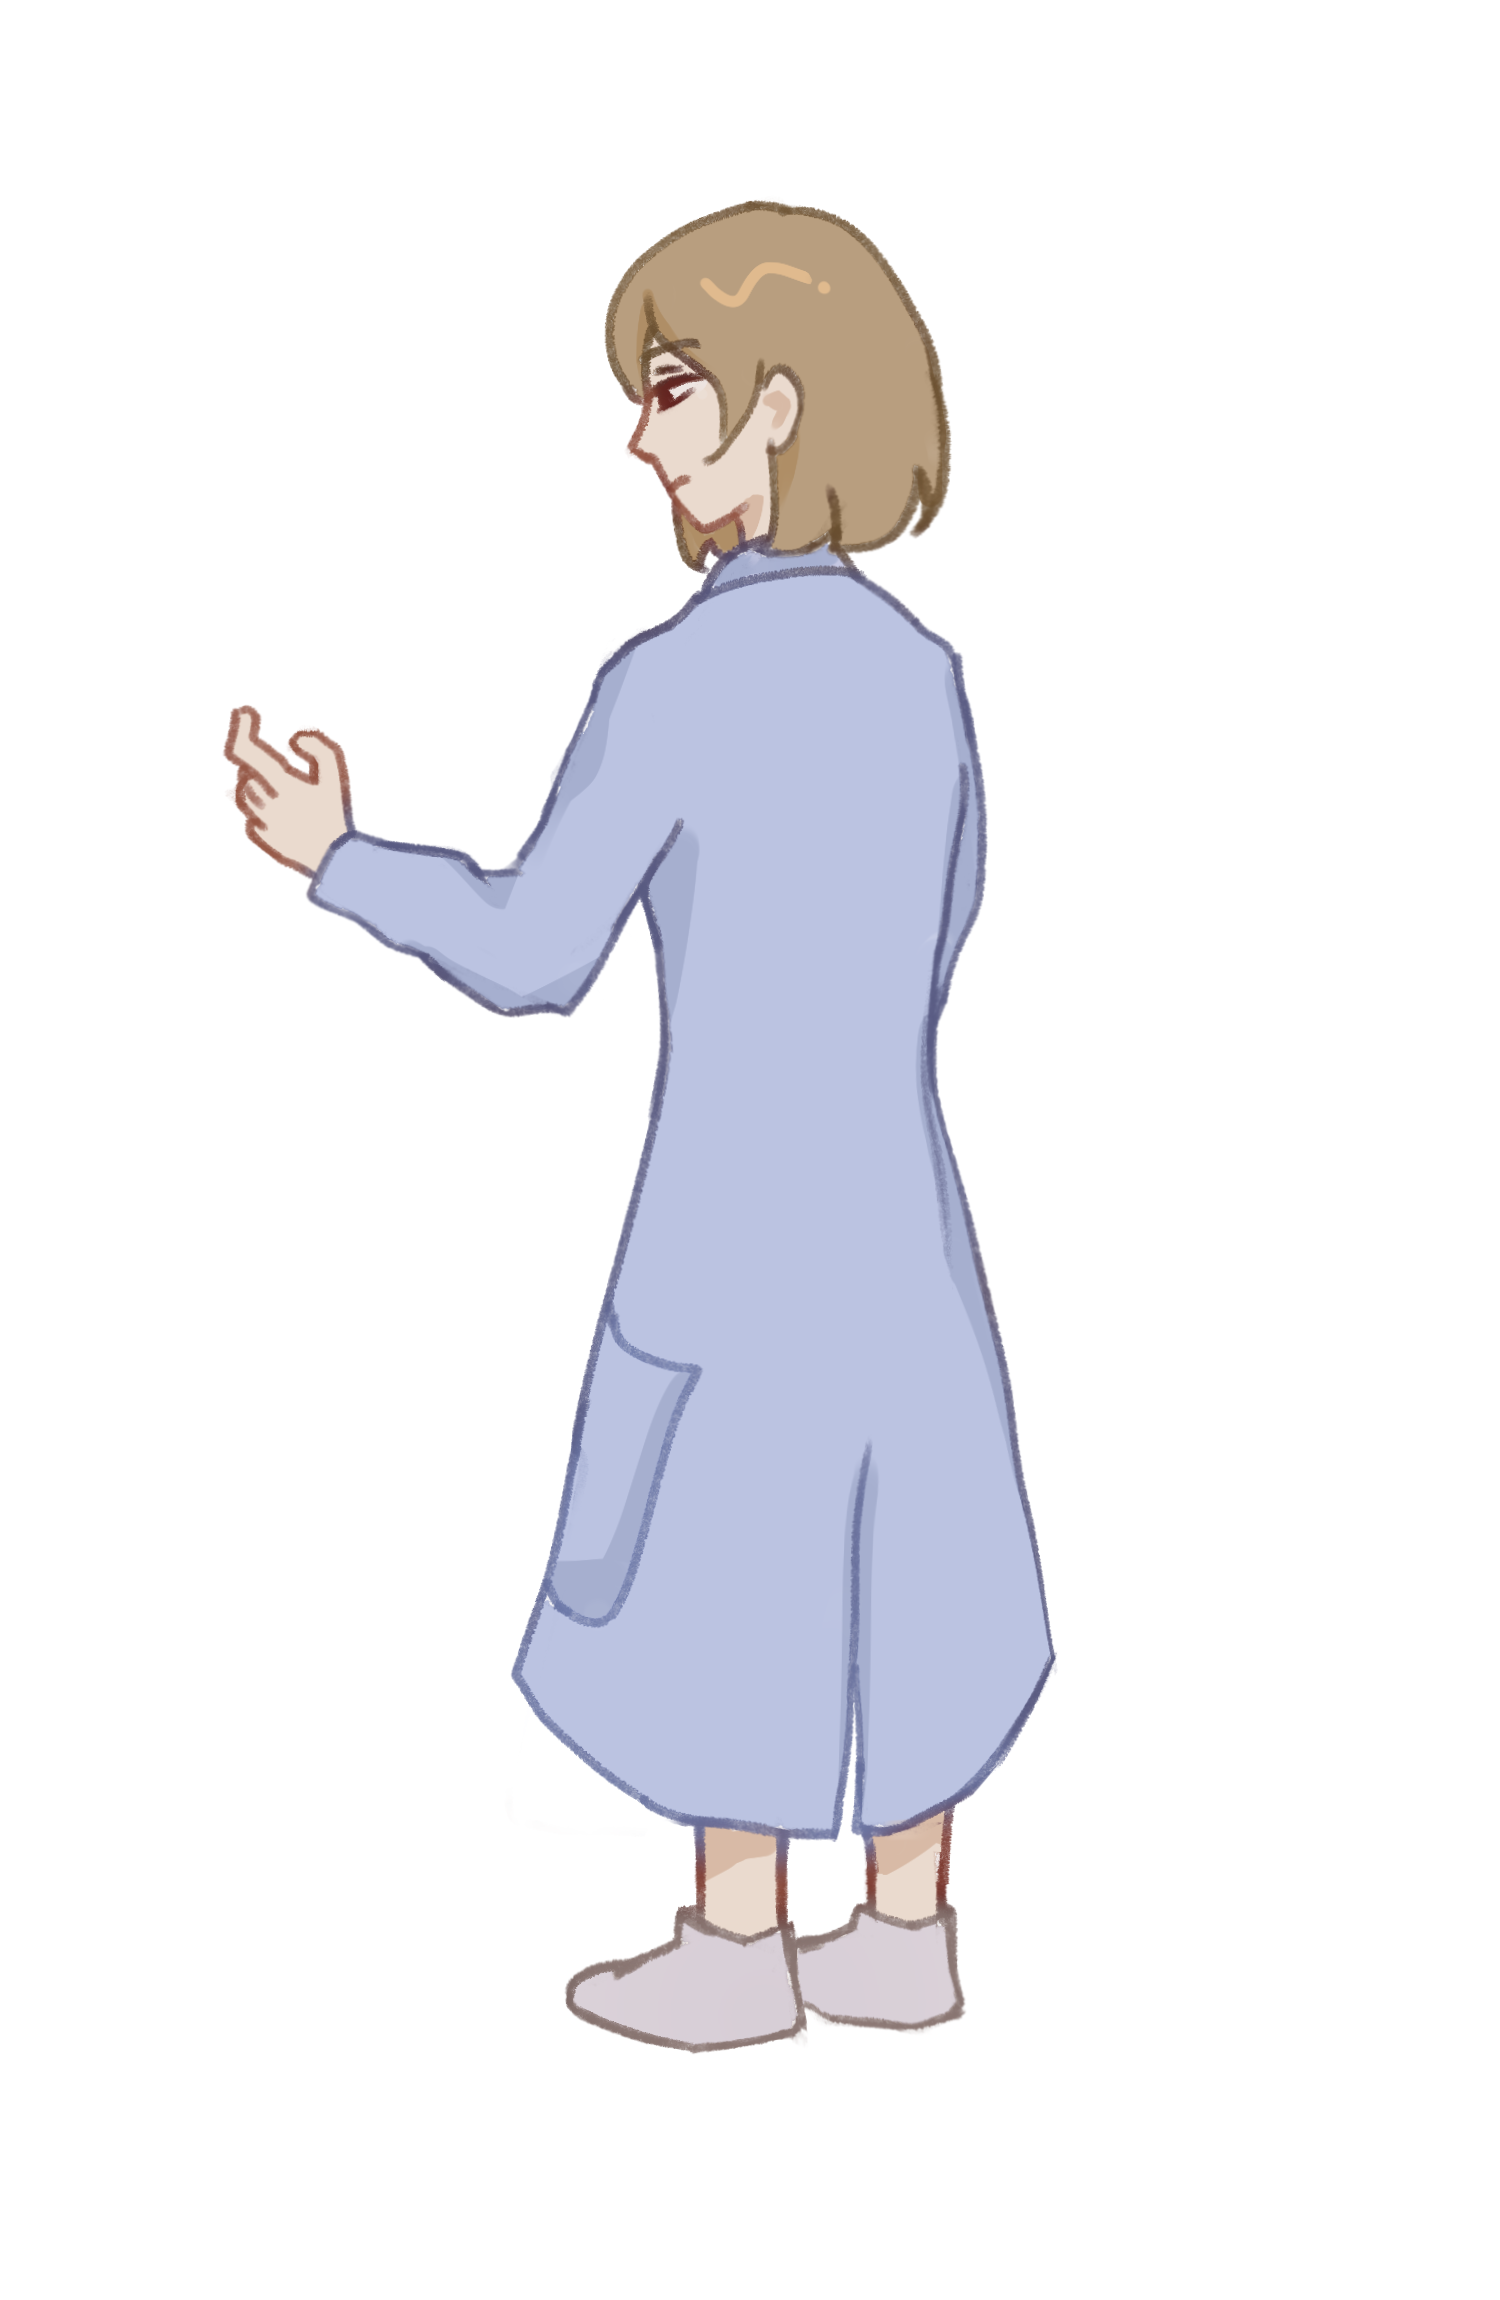
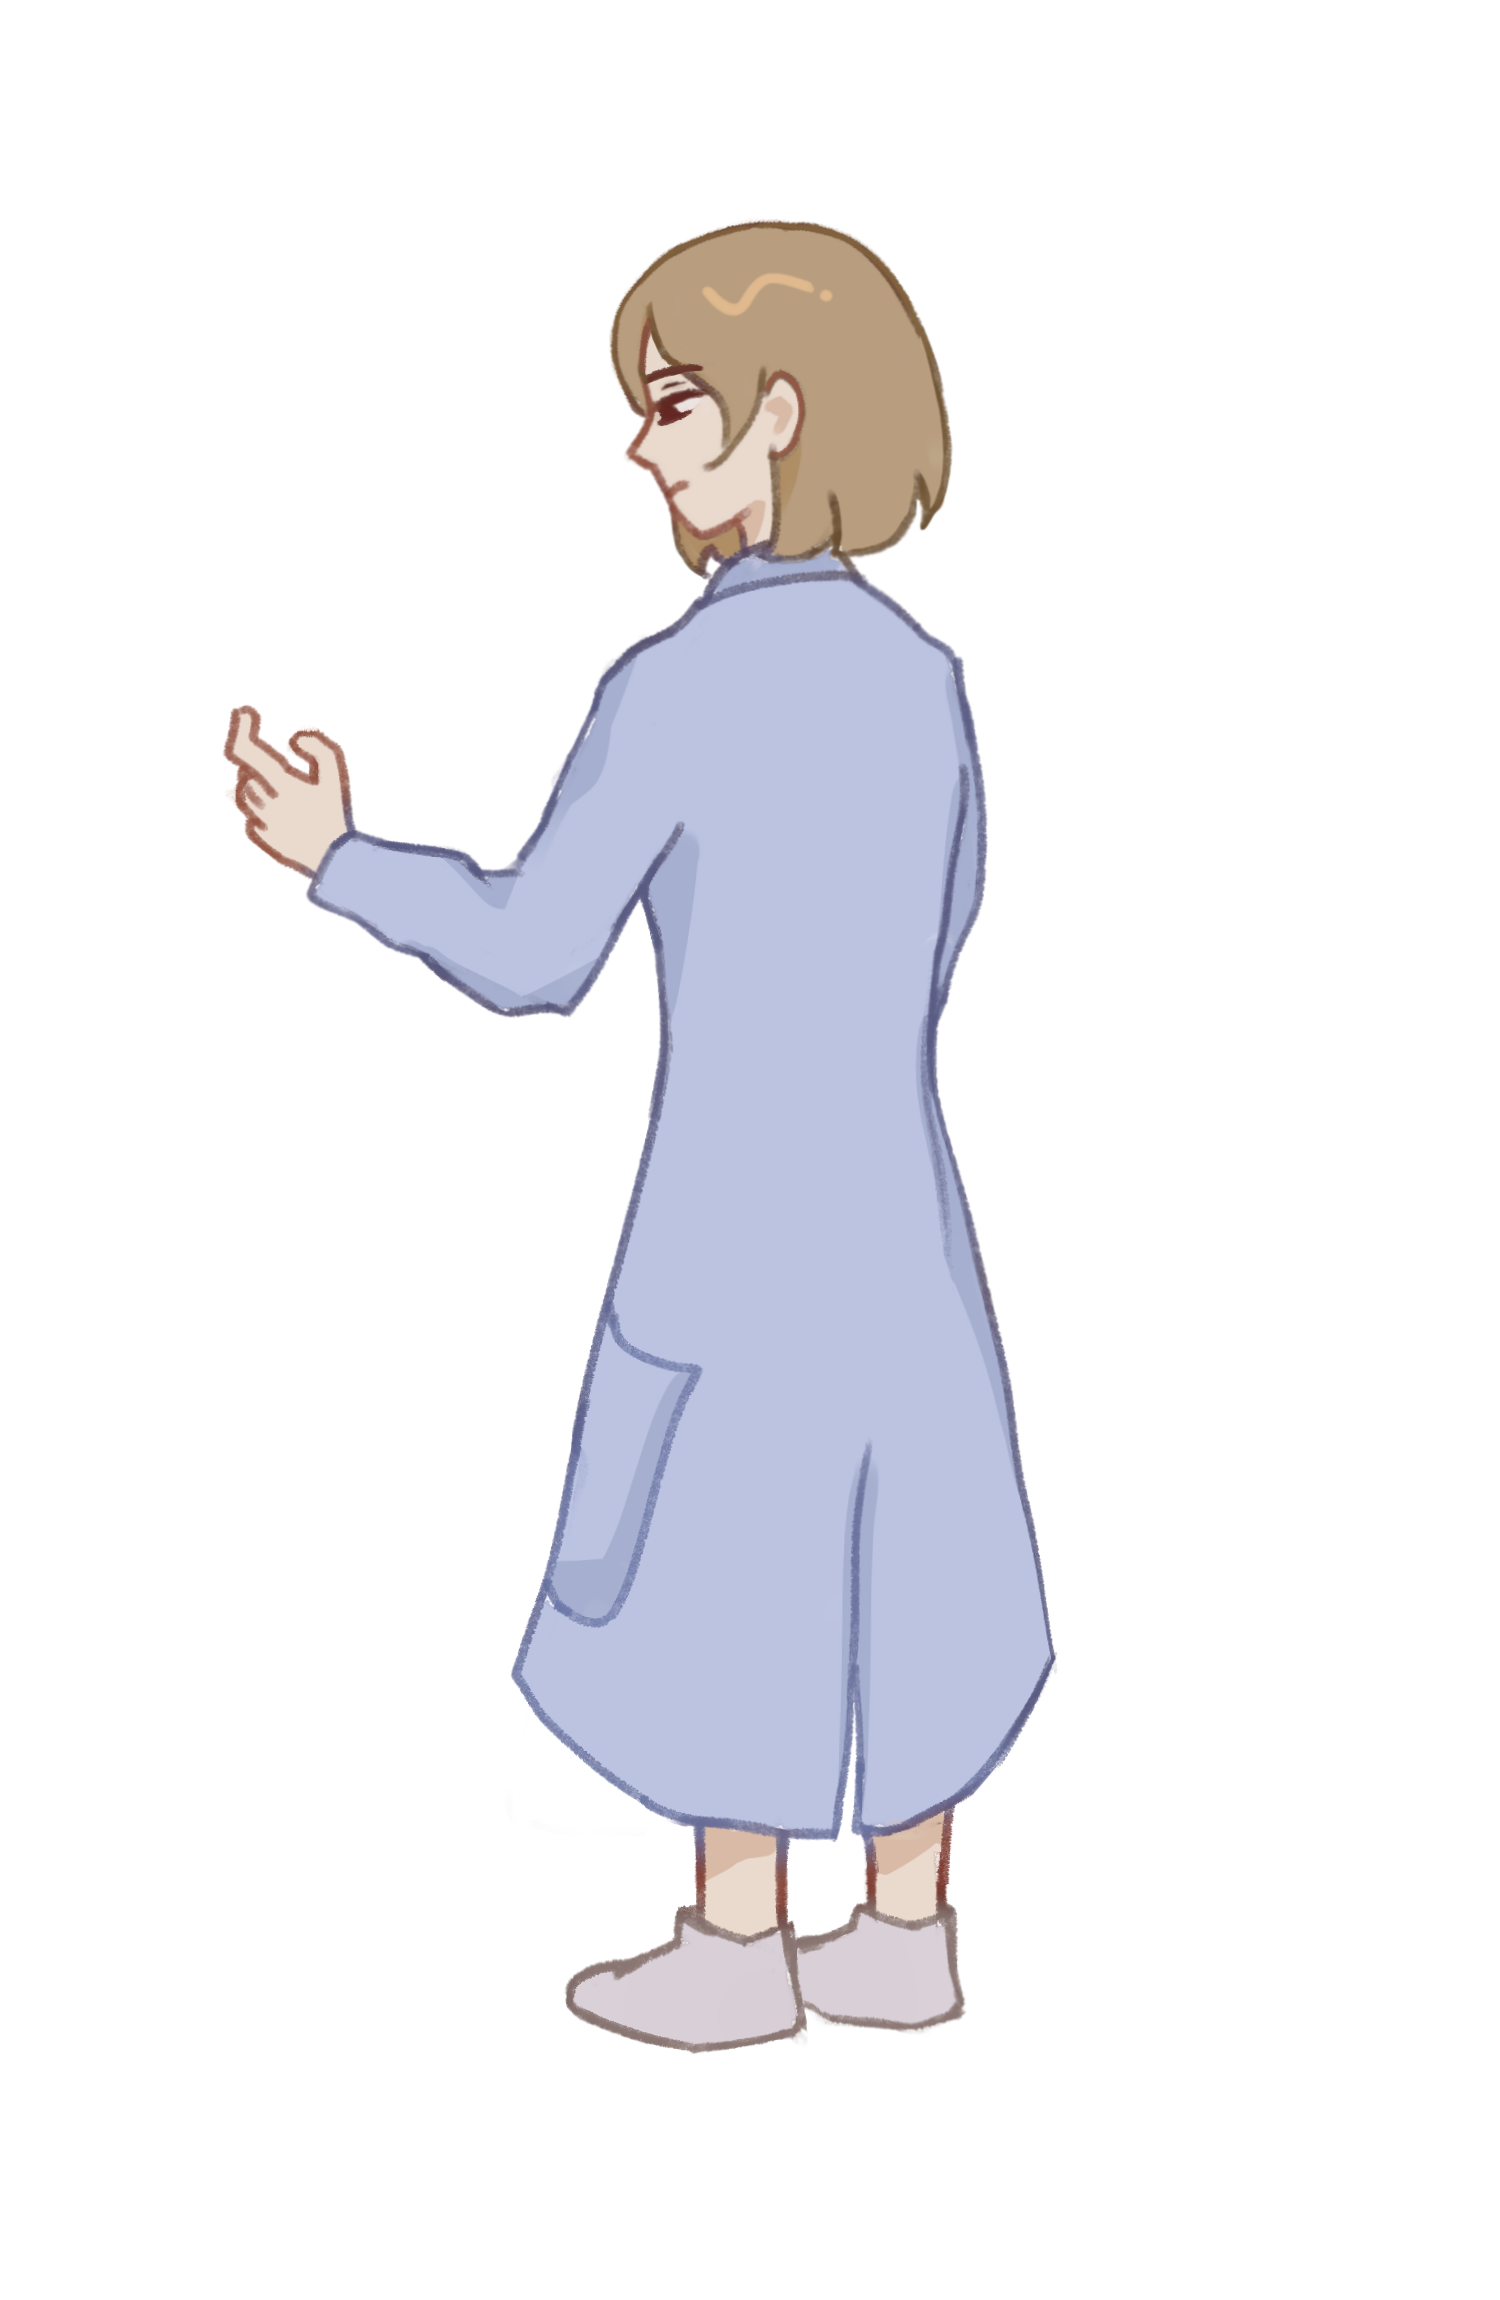
Add turning effect of scientist on hover

diff --git a/src/main/java/nz/ac/auckland/se206/controllers/LeadScientistController.java b/src/main/java/nz/ac/auckland/se206/controllers/LeadScientistController.java
@@ -1,3 +1,26 @@
 package nz.ac.auckland.se206.controllers;
 
-public class LeadScientistController extends RoomController {}
+import javafx.fxml.FXML;
+import javafx.scene.image.ImageView;
+
+public class LeadScientistController extends RoomController {
+  @FXML private ImageView leadscientist;
+  @FXML private ImageView leadscientistturned;
+
+  @FXML
+  public void initialize() {
+    hideTurned();
+  }
+
+  @FXML
+  void showTurned() {
+    leadscientist.setVisible(false);
+    leadscientistturned.setVisible(true);
+  }
+
+  @FXML
+  void hideTurned() {
+    leadscientist.setVisible(true);
+    leadscientistturned.setVisible(false);
+  }
+}
